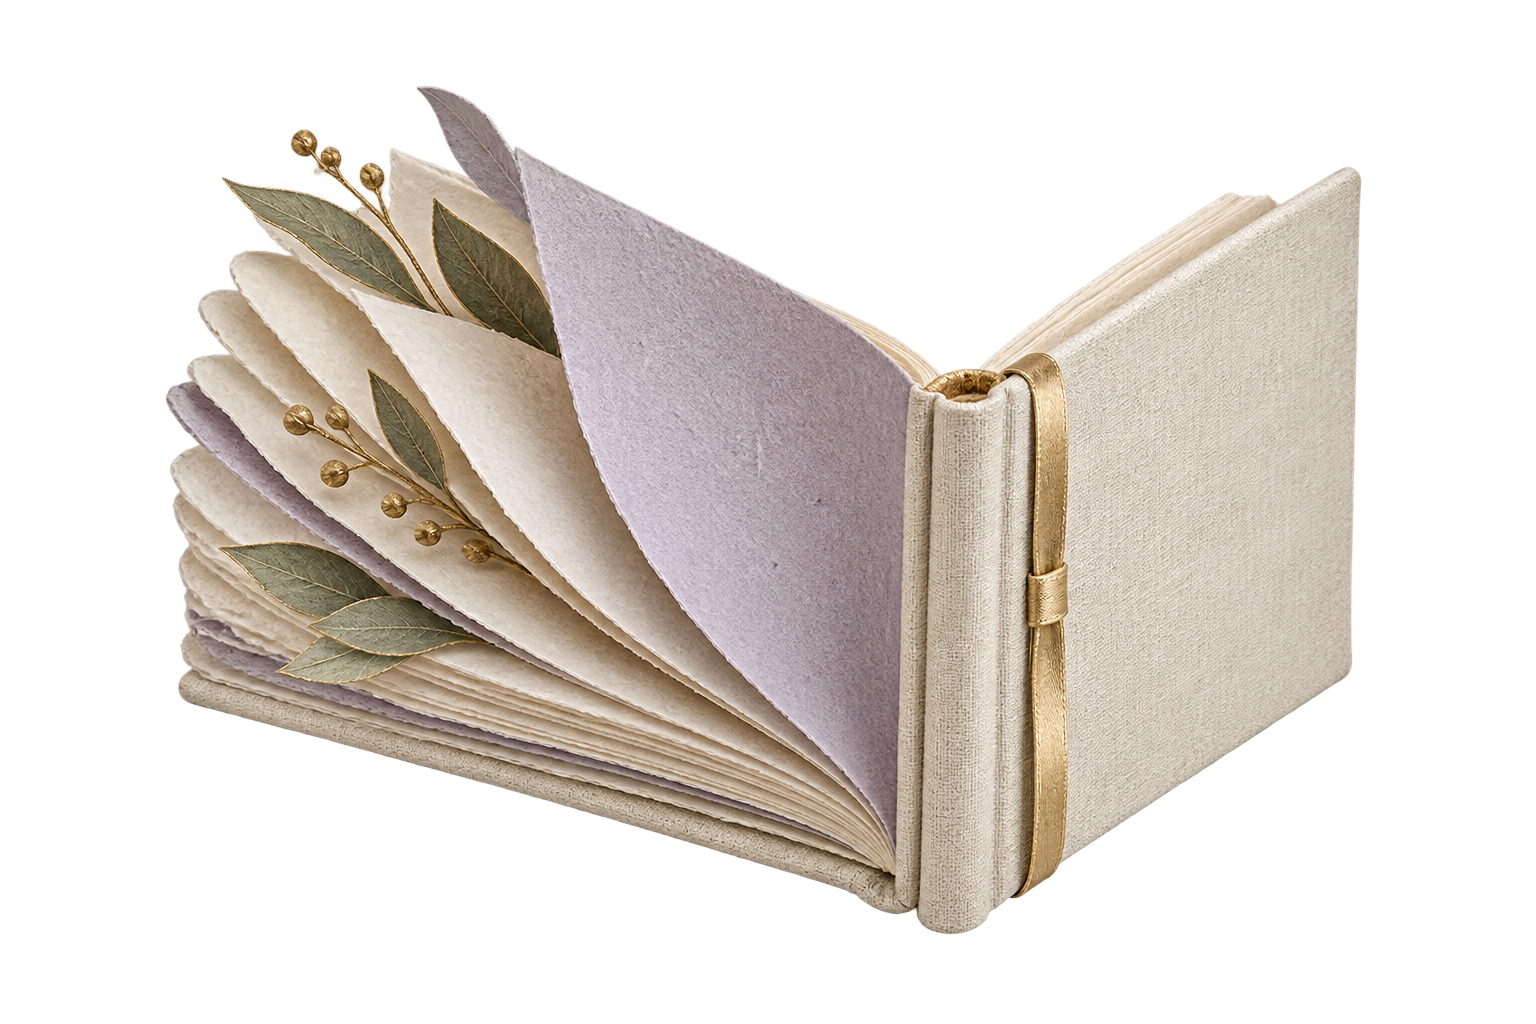
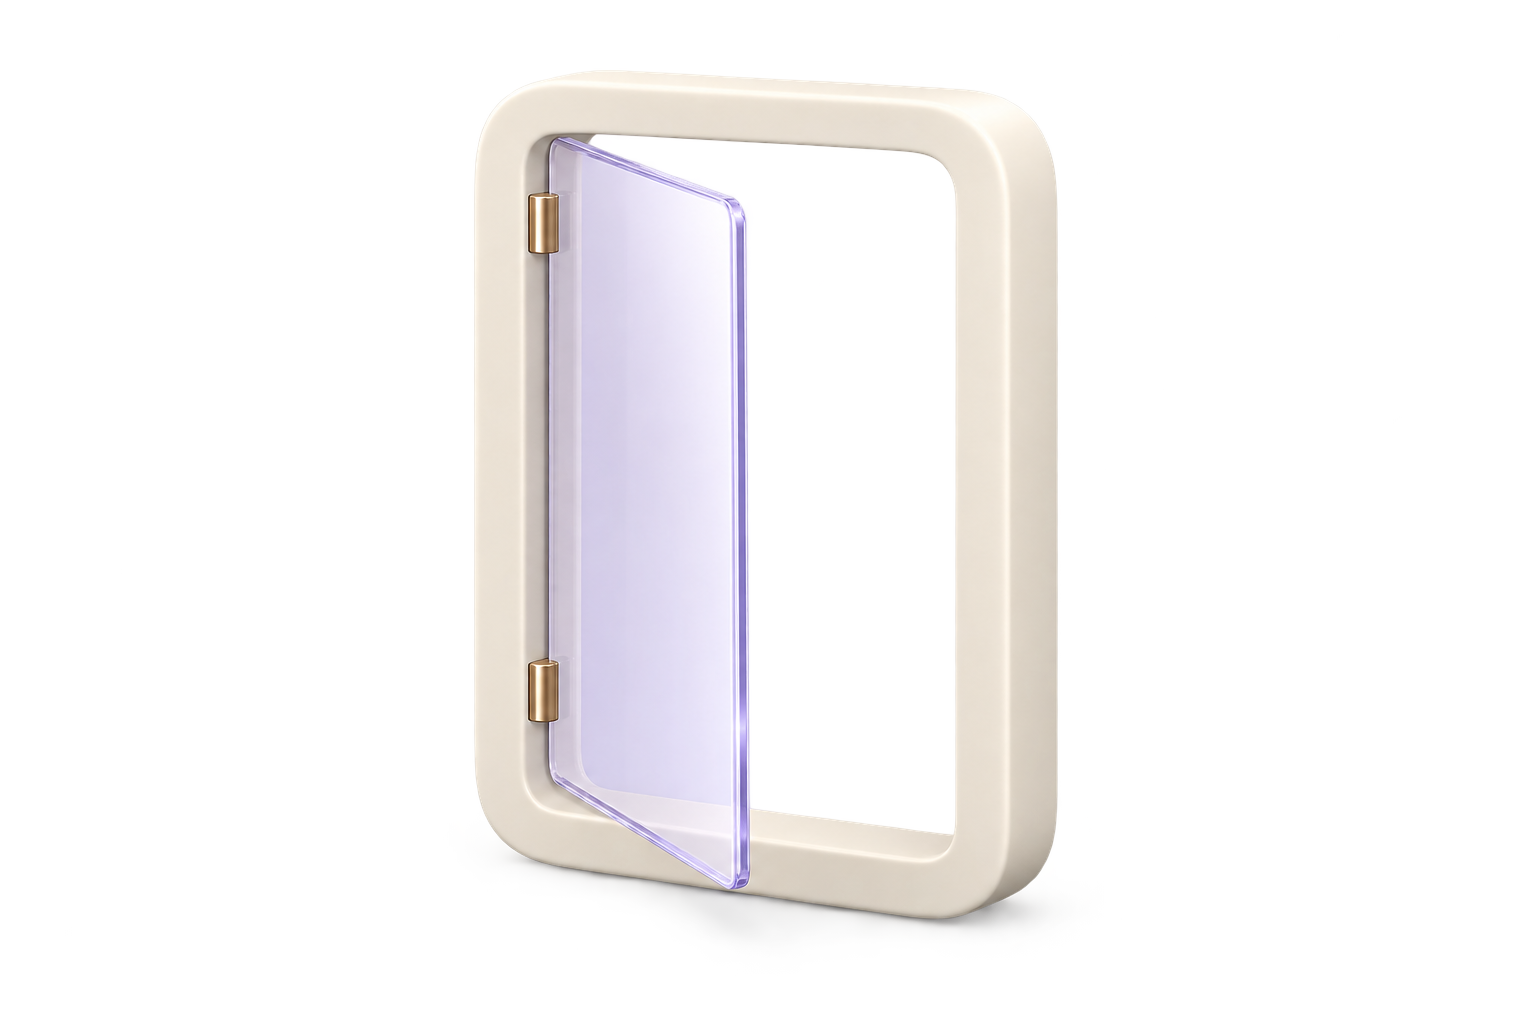
Finish website details and record verified v0.1.3 release

diff --git a/website/src/hero-text-clearance.ts b/website/src/hero-text-clearance.ts
@@ -54,9 +54,9 @@ export function createTextClearance(nodes:Element[]) {
    if(!distances)return 1;
    const px=Math.floor(x-left),py=Math.floor(y-top);
    if(px<0||py<0||px>=canvas.width||py>=canvas.height)return 1;
-   // A narrow falloff protects the small moving glyph itself while leaving
-   // genuine line ends, line gaps and large letter counters available.
-   const ramp=Math.max(0,Math.min(1,(distances[py*canvas.width+px]-5)/5));
+   // Leave a little air around the actual letter strokes, then fade the
+   // moving glyphs in without masking paragraph or heading rectangles.
+   const ramp=Math.max(0,Math.min(1,(distances[py*canvas.width+px]-8)/7));
    return ramp*ramp*(3-2*ramp);
   },
   dispose(){distances=null;canvas.width=canvas.height=1;},

diff --git a/docs/releases/v0.1.3.md b/docs/releases/v0.1.3.md
@@ -1,6 +1,8 @@
 # SecondU v0.1.3
 
-**Release candidate — not yet published.** v0.1.2 remains the current public release.
+Published / 已发布：2026-10-02 08:00:47（Asia/Shanghai）。公开 ZIP 与校验文件的摘要和大小已核对一致。
+
+Desktop runtime source: [`30d7a7a`](https://github.com/YunyueLi/SecondU/commit/30d7a7a5ad7d3f2275fa9966b18cd8f4eb831f1c). Subsequent website and publication-record updates do not alter this desktop archive.
 
 - Align native macOS title-bar controls and keep the navigation toggle's click target separate from draggable window surfaces, including after collapse.
 - Add a 24-scenario context benchmark across three conditions and two repetitions: **144 recorded attempts, 143 replies and one timeout**. Raw retrieval passed 48/48 decision checks; structured context passed 43/48. The concise website summary links to a separate report with exact inputs, replies, scores and retained failures. This run does not establish a structured-context advantage.
@@ -8,13 +10,15 @@
 - Reuse the product startup screen in the embedded workspace, repair deployment-subpath resources and confirm readiness after iframe load. Loading errors offer an explicit retry.
 - Add a dedicated privacy illustration and update the bilingual benchmark and artwork documentation.
 
-Validation so far: **645 checks passed, 10 environment-dependent checks skipped, none failed**. Package and unpacked-archive runtime checks, read-only MCP and ad-hoc signature verification passed. **Pending:** final native UI verification of title alignment, repeated collapse/expand and window-drag hit areas; release-commit CI, Pages and public asset verification. External Kimi visual review has not been completed. These pending checks are not recorded as passes.
+Validation so far: **645 checks passed, 10 environment-dependent checks skipped, none failed**. Package and unpacked-archive runtime checks, read-only MCP and ad-hoc signature verification passed. The verified final app passed **30 native sidebar toggles**: six consecutive toggles each on Home, Agents, a conversation, an expanded workbench and macOS fullscreen. Leaving fullscreen restored the window. A drag action on empty title-bar space preserved the content and toggle; window displacement was not measured.
 
-The desktop candidate supports **Apple silicon Macs running macOS 13 or newer** and is not Apple-notarized. Verify the archive against its accompanying `SHA256SUMS.txt`. See [Quick start](../../QUICKSTART.md), [benchmark methodology and results](../CONTEXT-BENCHMARK.md) and [development evidence](../DEVELOPMENT.md#2026-10-01-v013-候选变更与验收).
+External Kimi visual review could not read its credential and produced no result. Internal checks do not replace that external review.
+
+The desktop app supports **Apple silicon Macs running macOS 13 or newer** and is not Apple-notarized. Verify the archive against its accompanying `SHA256SUMS.txt`. See [Quick start](https://github.com/YunyueLi/SecondU/blob/main/QUICKSTART.md), [benchmark methodology and results](https://github.com/YunyueLi/SecondU/blob/main/docs/CONTEXT-BENCHMARK.md) and [development evidence](https://github.com/YunyueLi/SecondU/blob/main/docs/DEVELOPMENT.md#2026-10-01-v013-候选变更与验收).
 
 ## 中文
 
-**发布候选，尚未公开发布；当前公开版本仍为 v0.1.2。**
+桌面运行代码对应提交 `30d7a7a`；后续官网与发布记录更新不改变这份桌面归档。
 
 - 对齐 macOS 原生标题栏控件，修复导航收起后按钮点击区与窗口拖动区重叠。
 - 新增 24 个场景、三种条件、两次重复的上下文评测：144 次尝试完整保留，143 次返回、1 次超时。原始检索正确 48/48，结构化上下文正确 43/48；官网提供简明结果与独立报告，可检查输入、回复、评分和失败。本轮未证明结构化质量优势。
@@ -22,4 +26,14 @@ The desktop candidate supports **Apple silicon Macs running macOS 13 or newer** 
 - 嵌入工作区复用产品启动界面，修复子路径资源与初始化握手，加载失败可明确重试。
 - 新增独立隐私插图，补充中英文评测及素材说明。
 
-当前检查 **645 项通过、10 项环境相关检查跳过、0 失败**；应用包及解压归档的运行、只读 MCP、ad-hoc 签名验证通过。最新原生标题对齐、连续收起／展开、窗口拖动命中，以及发布提交的 CI、Pages 和公开资产核对仍待完成。外部 Kimi 视觉复核未完成，不将待项写成通过。安装包尚未获 Apple 公证。
+当前检查 **645 项通过、10 项环境相关检查跳过、0 失败**；应用包及解压归档的运行、只读 MCP、ad-hoc 签名验证通过。确认实际运行最终包后，首页、Agents、对话、展开工作台及 macOS 全屏各连续切换侧栏 6 次，**共 30 次原生点击全部成功**；退出全屏后窗口恢复。空白标题栏拖动操作后内容与按钮保留，但未量测窗口位移。
+
+外部 Kimi 视觉复核因无法读取凭据而没有取得结果，内部检查不代替该项外部评审。安装包尚未获 Apple 公证。
+
+## Archive
+
+`SecondU-v0.1.3-macos-arm64.zip` — 220,915,395 bytes
+
[1 lines of base64/hex data omitted]
+
+Six documentation files were synchronized before final archive verification; runtime, frontend, desktop, dependencies and Electron framework files remained byte-identical. Documentation inside the archive records its build-time candidate status. / 最终归档验收前同步了六份文档，运行、前端、桌面、依赖和 Electron 框架文件字节保持一致；包内文档保留封包时的候选状态。

diff --git a/docs/ITERATION.md b/docs/ITERATION.md
@@ -346,12 +346,21 @@ v0.1.2 仍为当前已发布版本，v0.1.3 待发布。本轮围绕评测证据
 | 官网先给简洁结果，再允许检查依据 | 首页量化摘要与独立评测报告分开，报告保留逐题输入、完整回复、评分、失败和使用量；pilot 与历史首轮独立存放 | 最终公开部署与线上入口按发布结果补录 |
 | 2ndU 避让真实人物和文字，不能把整块空白挖掉 | 人物使用实际合成 alpha，标题及正文使用字形 alpha，行尾、行间可显示固定正立的 2ndU；中英文真实截图与类型检查通过，按钮保留安全区 | 实屏只覆盖所查页面，不替代其他设备性能或用户最终认可 |
 | 产品启动应有一致状态，并避免长时间停在加载中 | 复用产品 StartupScreen，修复子路径资源与初始化握手，提供明确错误与重试；本机一次冷启动握手实测 636 ms | 该样本不作为线上或所有设备的时延保证 |
-| 原生标题与侧栏需反复操作验证 | 对齐与重复收栏修复已进入源码 | 主任务尚待补入最新原生标题、连续收起／展开结果 |
+| 原生标题与侧栏需反复操作验证 | 最终包在首页、Agents、对话、展开工作台与 macOS 全屏各切换侧栏 6 次，共 30 次成功；退出全屏后恢复 | 空白标题栏拖动后内容与按钮保留，未量测窗口位移 |
 | 隐私区应有自己的视觉表达 | 独立书册插图已接入 | 桌面浅／深色与 390 窄屏实屏通过，透明边缘与三个标签完整 |
 
-本轮保持 v0.1.3 为候选状态，最终封包、对应提交的 CI、Pages、公开发布及资产核对仍待完成；外部 Kimi 无有效结果的缺口保留。完成发布后补一次实际发布记录，不把文档补录当成新的产品修改或重复整包理由。详见[本轮开发记录](DEVELOPMENT.md#2026-10-01-v013-候选变更与验收)。
+本轮保持 v0.1.3 为候选状态；最终封包、上传、对应提交的 CI／Pages 与原生连续操作已有下述分项证据，公开发布及公开资产核对仍待完成。外部 Kimi 无有效结果的缺口保留。完成发布后补一次实际发布记录，不把文档补录当成新的产品修改或重复整包理由。详见[本轮开发记录](DEVELOPMENT.md#2026-10-01-v013-候选变更与验收)。
 
 
 ### 2026-10-02 发布核对
 
-本轮官网与源码已随 `30d7a7a` 发布，macOS／Ubuntu CI 与 Pages 通过。v0.1.3 安装包、校验文件已进入草稿且远端摘要核对一致。桌面正式发布仍等待 Mac 解锁后的原生连续操作验收，当前公开安装包保持 v0.1.2。独立报告已在线核对实际结果与超时记录；详见[发布记录](DEVELOPMENT.md#2026-10-02-官网发布与桌面候选上传)。
+本轮官网与源码已随 `30d7a7a` 发布，macOS／Ubuntu CI 与 Pages 通过。v0.1.3 安装包、校验文件已进入草稿且远端摘要核对一致。上传时原生连续操作仍待 Mac 解锁后验收，该项现已完成下述复验；桌面版本尚未公开发布，当前公开安装包保持 v0.1.2。独立报告已在线核对实际结果与超时记录；详见[发布记录](DEVELOPMENT.md#2026-10-02-官网发布与桌面候选上传)。
+
+最终原生复验先排除了运行旧候选的影响：退出旧进程，将 12 个已识别旧副本移入废纸篓，再确认实际进程、服务修订及页面文件均属于当前最终包。首页、Agents、对话、展开工作台和 macOS 全屏各连续切换 6 次，30 次原生点击全部成功，退出全屏后恢复；空白标题栏拖动后内容与按钮保留，但未量测窗口位移。此处补录已取得的验收，不改写旧候选当时的失败或待验状态，也不将草稿写成已发布。详见[原生复验记录](DEVELOPMENT.md#2026-10-02-最终原生包连续切换复验)。
+
+
+## 2026-10-02 官网最终修订与 v0.1.3 发布
+
+用户反馈文字周围应留出更多空隙，并否定原书册配图。已将文字轮廓退让改为 8px 实心安全区与 7px 柔化区；隐私插图改为简洁几何门框与淡紫玻璃，弃用书册。最新中英文字符交互、明暗插图与 390px 页面完成实屏检查，无横向溢出。
+
+v0.1.3 于北京时间 08:00:47 正式公开，公开资产摘要与已验证安装包一致。最终原生包的 30 次连续切换与退出全屏复验已完成；12 份旧副本已移入废纸篓。最新外部 Kimi 凭据预检退出 42，未取得模型评审。详见[发布回执](DEVELOPMENT.md#2026-10-02-v013-公开发布)；前文候选和失败时点保留。

diff --git a/CHANGELOG.md b/CHANGELOG.md
@@ -4,7 +4,9 @@ User-visible changes are recorded here. Detailed decisions and scoped checks rem
 
 ## Unreleased
 
-## 0.1.3 — Release candidate
+- Website follow-up: widen Hero glyph clearance to an 8px clear edge with a 7px fade; replace the rejected book artwork with a clean ivory frame and lavender glass door. Desktop binaries are unchanged.
+
+## 0.1.3 — 2026-10-02
 
 ### Fixed
 
@@ -20,7 +22,8 @@ User-visible changes are recorded here. Detailed decisions and scoped checks rem
 ### Validation and status
 
 - Candidate checks: 645 passed, 10 environment-dependent skips, no failures. Package and unpacked-archive runtime checks, read-only MCP and ad-hoc signature verification passed.
-- Final native title/collapse/drag interaction checks, release-commit CI, Pages and public asset verification remain pending. External Kimi visual review is incomplete. v0.1.2 remains the published release; see the [v0.1.3 candidate notes](docs/releases/v0.1.3.md).
+- The verified final app passed 30 native sidebar toggles: six each on Home, Agents, a conversation, an expanded workbench and macOS fullscreen. Leaving fullscreen restored the window. Empty-title-bar dragging preserved the content and controls; window displacement was not measured.
+- v0.1.3 was published at 2026-10-02 00:00:47 UTC. Both public asset digests and sizes match the verified local files. External Kimi review could not read its credential and produced no result; see the [v0.1.3 release notes](docs/releases/v0.1.3.md).
 
 
 ## 0.1.2 — 2026-10-01
